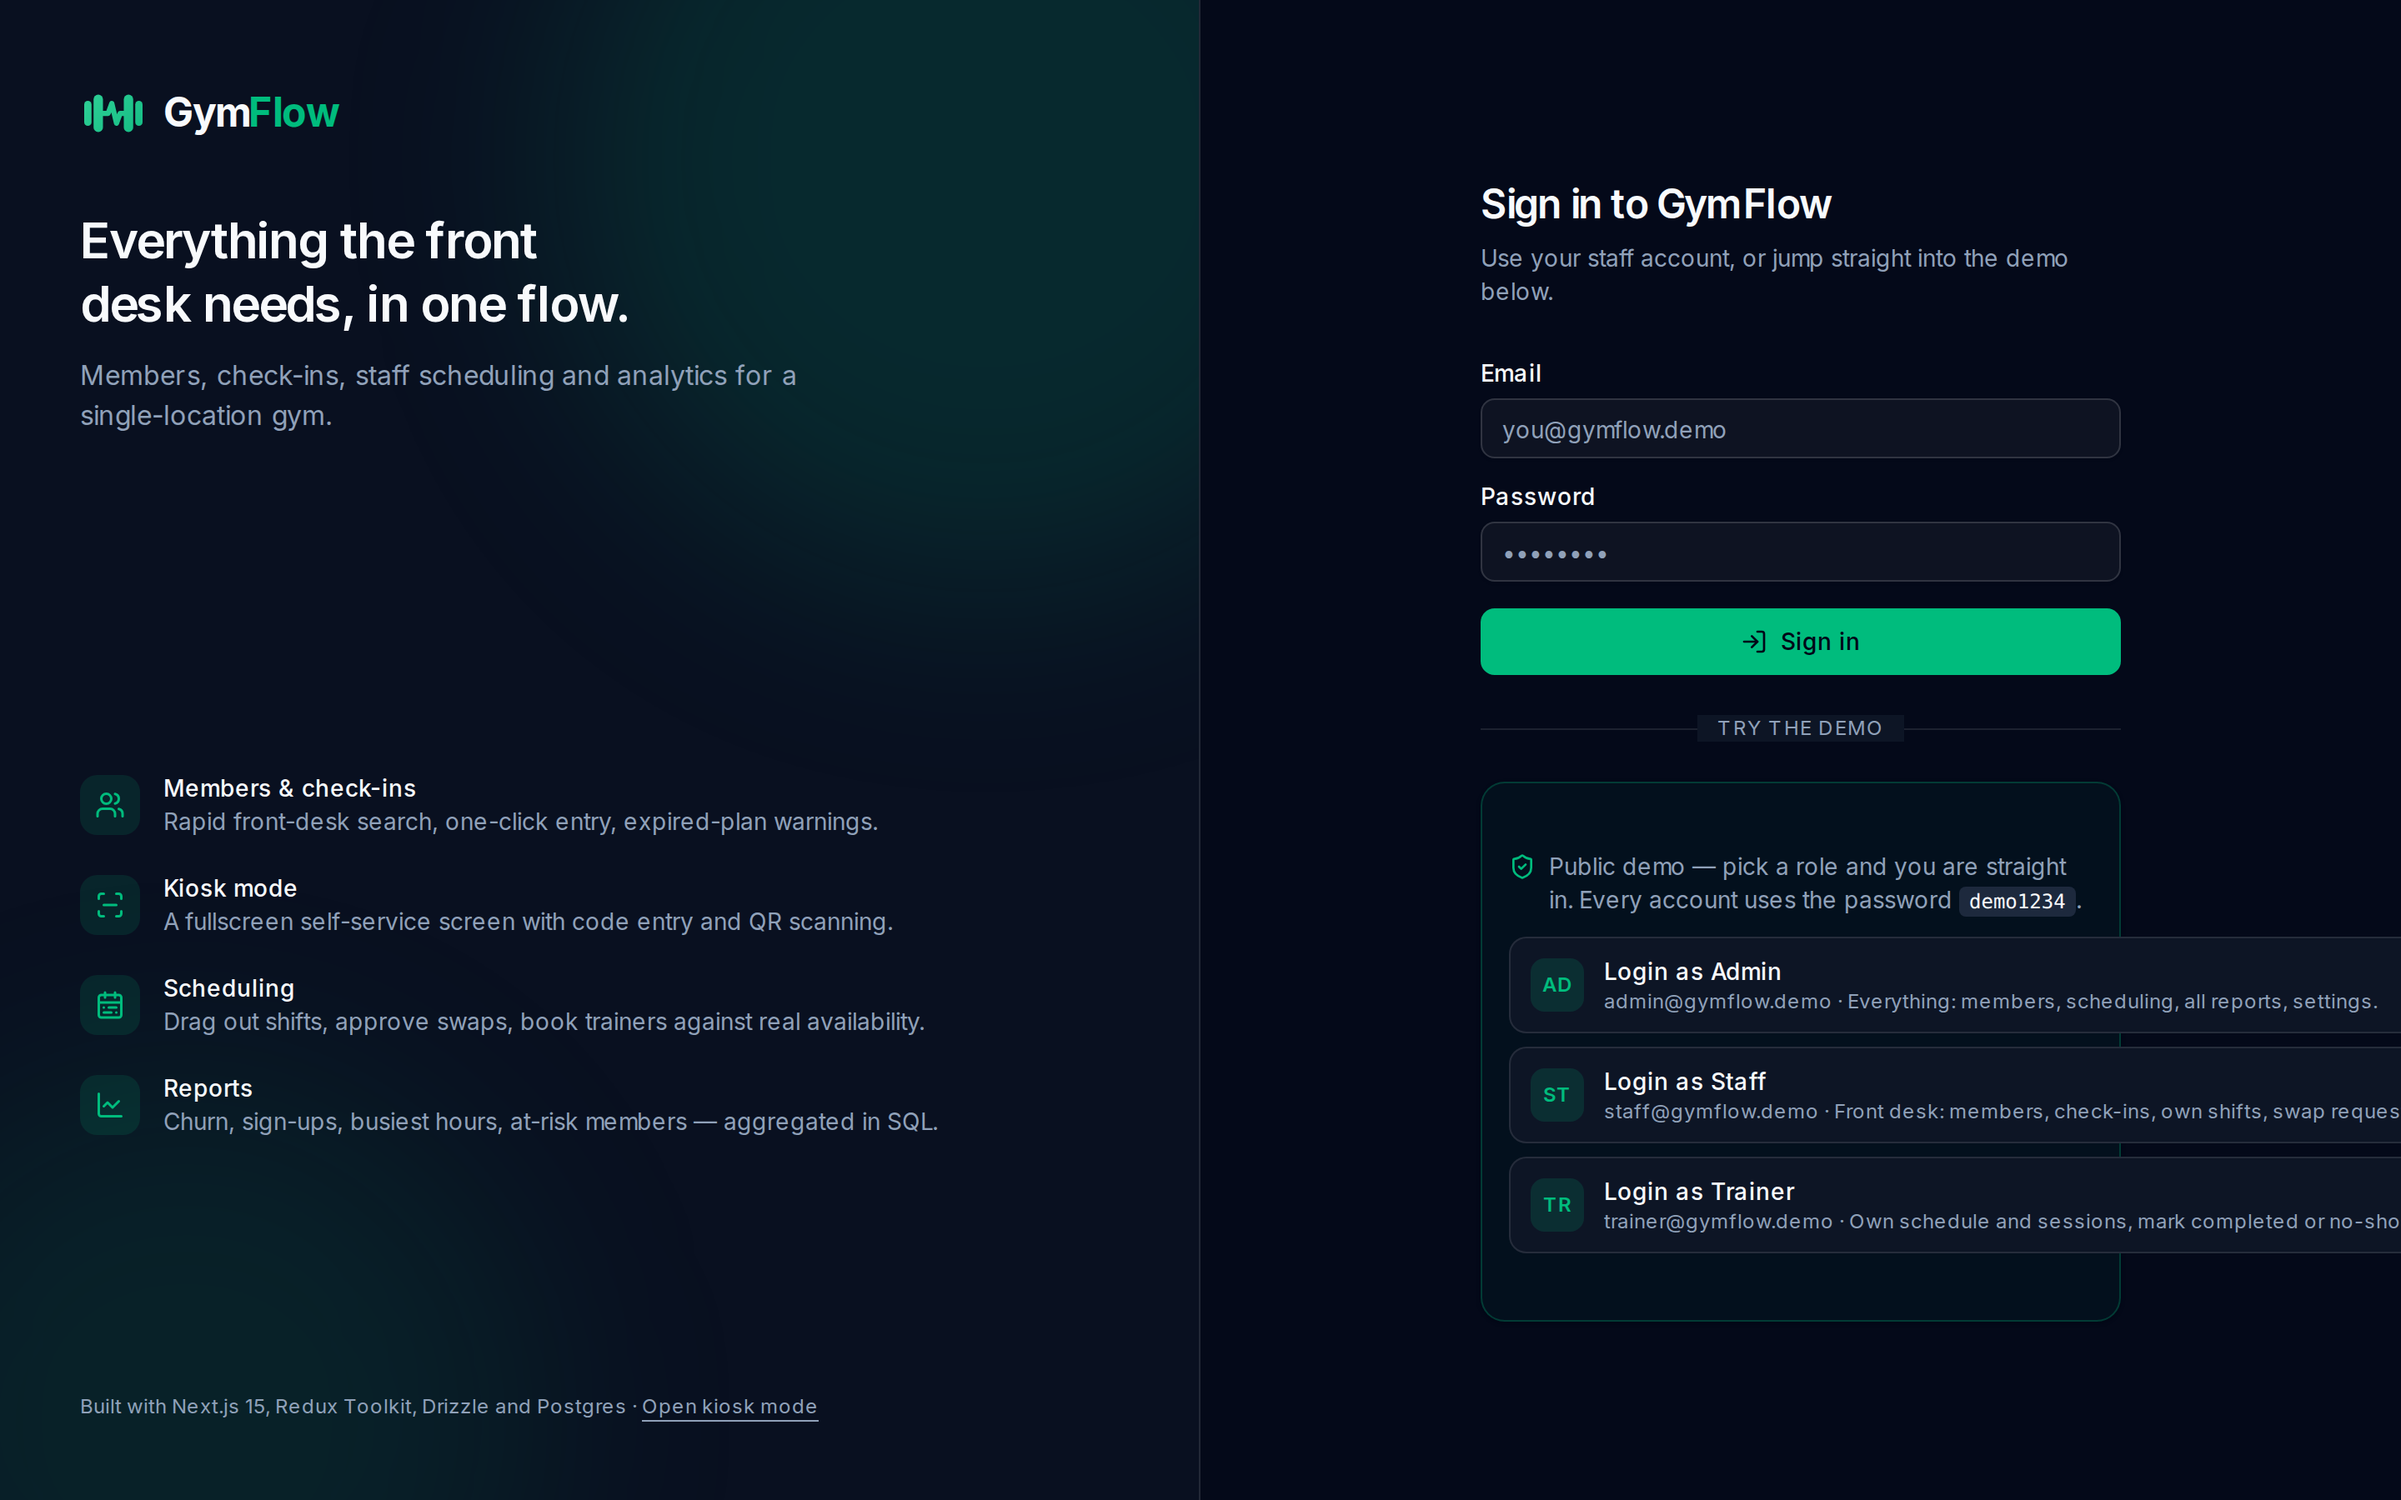
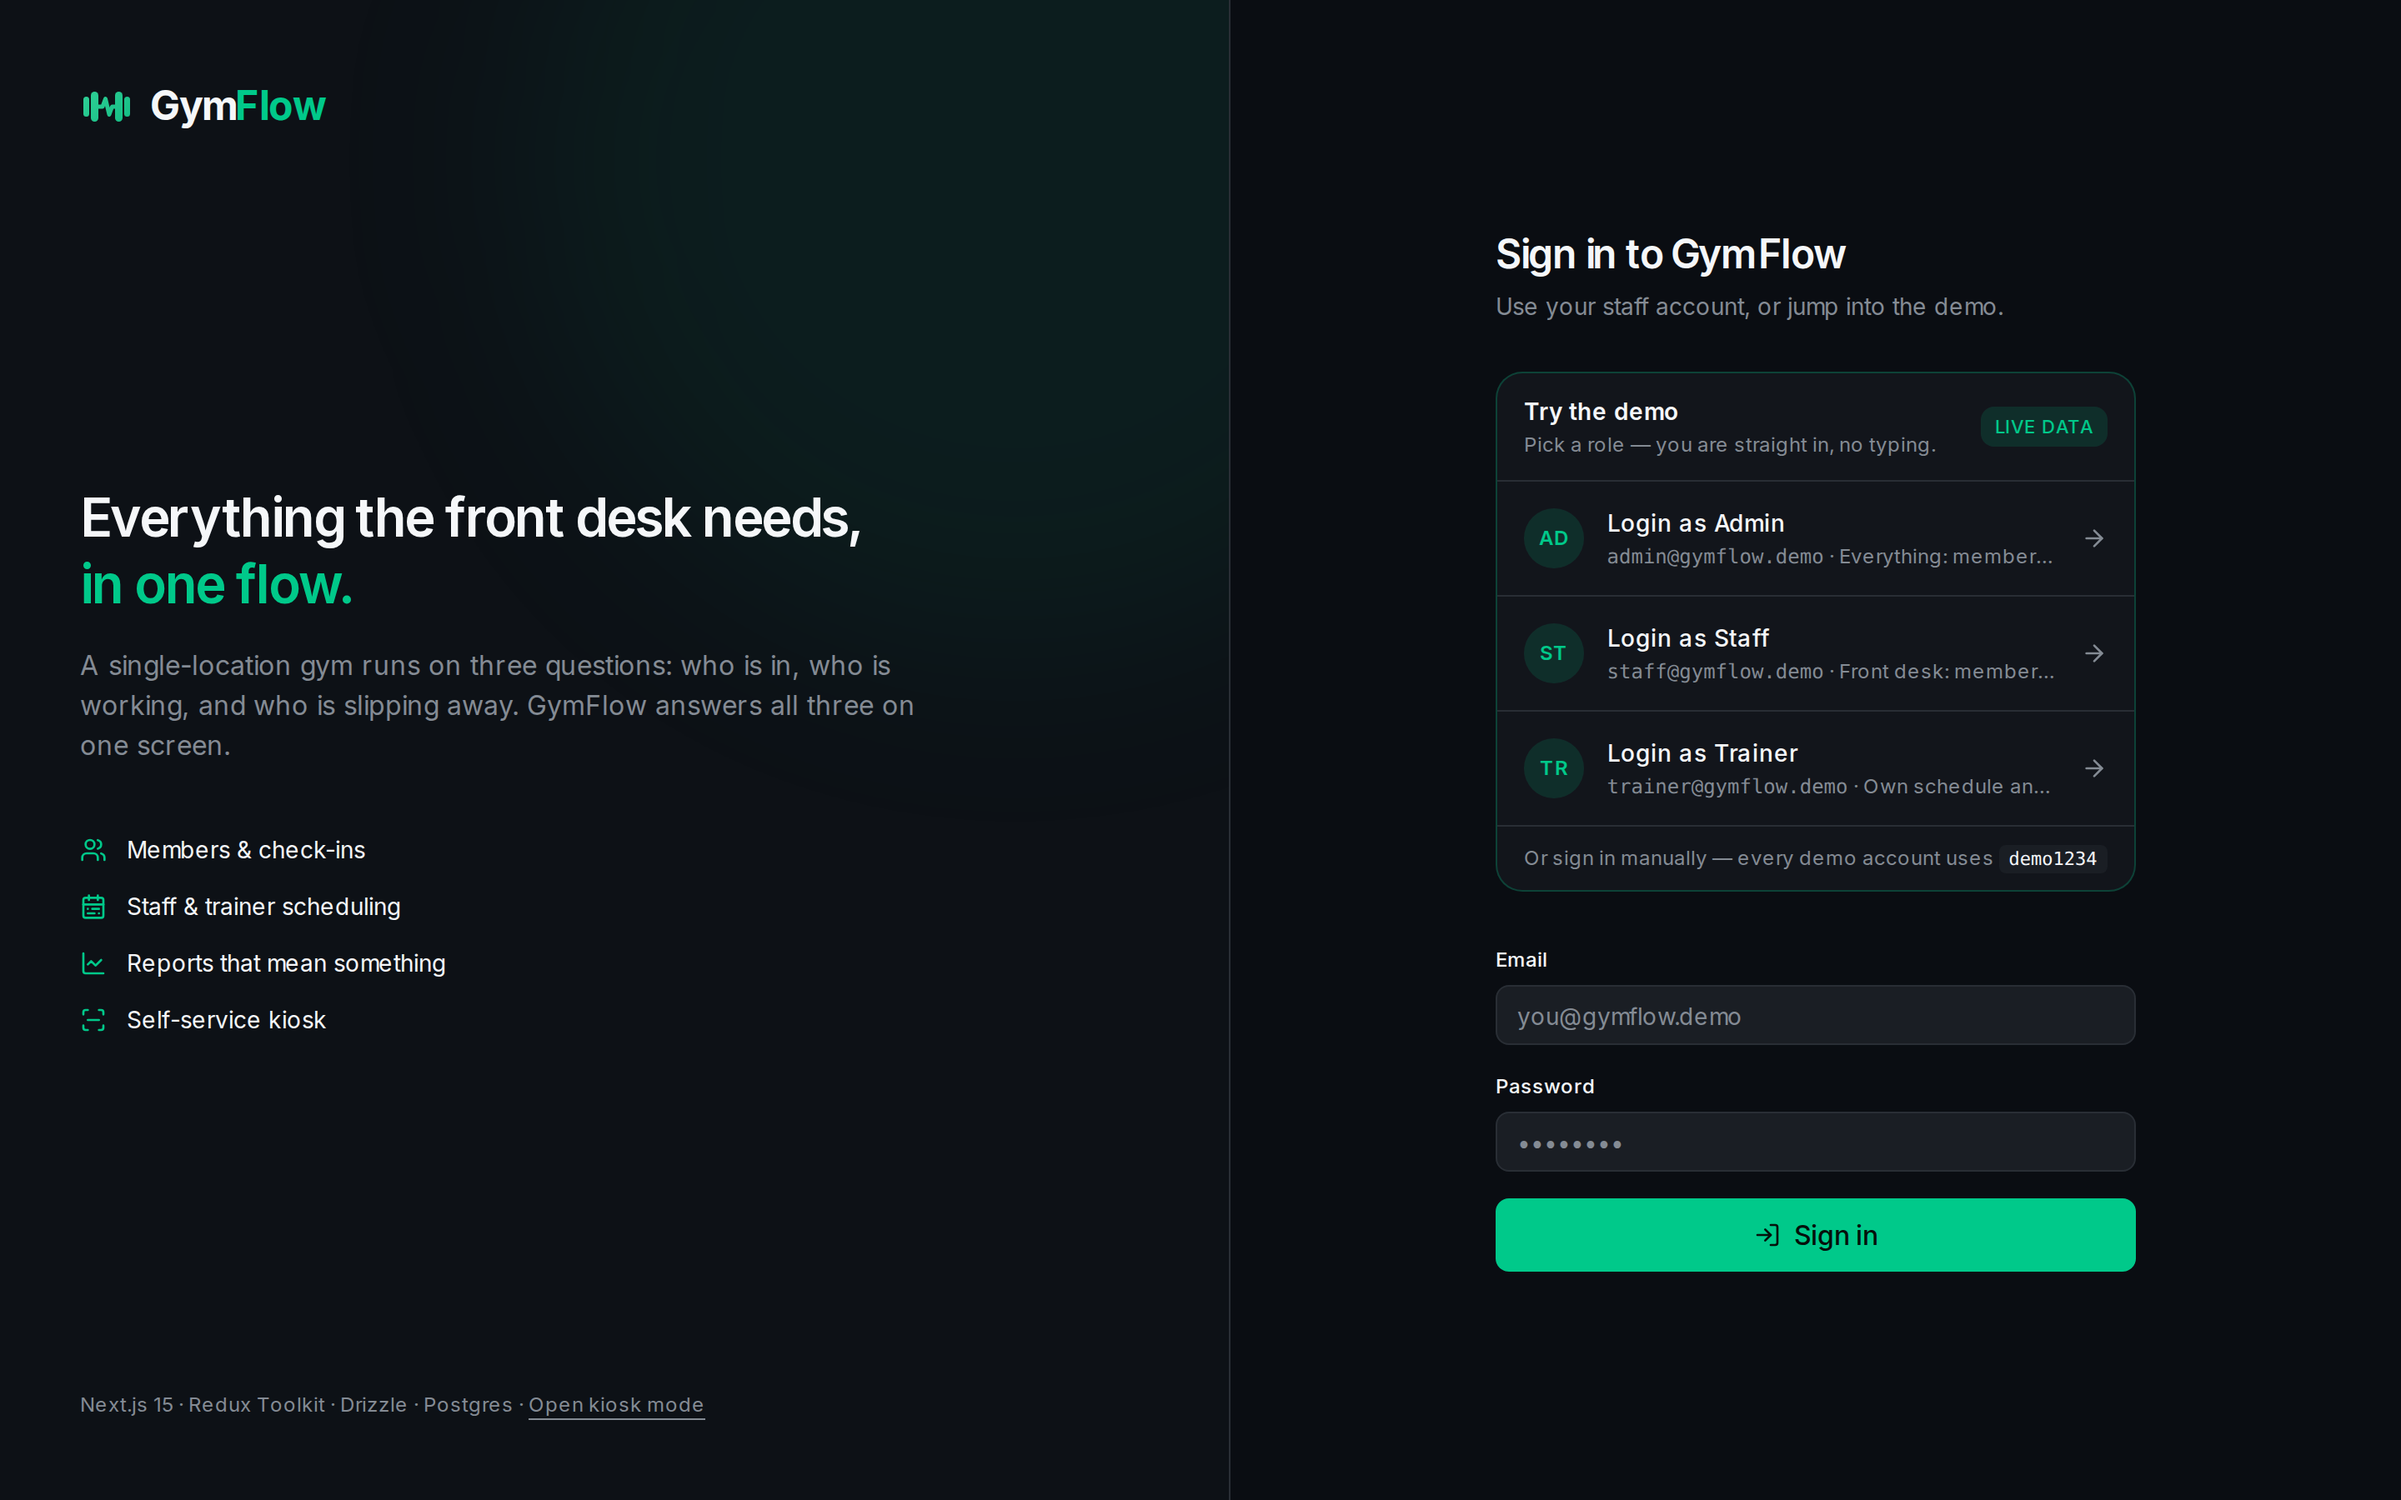
docs(design): refresh README screenshots and document the design system
Adds DESIGN.md to the docs links, a light-mode and style-guide capture, and an
Interface section covering the palette, shared forms and designed states.

diff --git a/scripts/screenshots.ts b/scripts/screenshots.ts
@@ -1,18 +1,16 @@
-import { chromium } from "@playwright/test";
+import { chromium, type Page } from "@playwright/test";
 
 /**
  * Captures the README screenshots against a running deployment.
  *
  *   pnpm tsx scripts/screenshots.ts https://gymflow-beryl.vercel.app
  */
-const SHOTS = [
-  { path: "/login", name: "login", auth: false },
-  { path: "/dashboard", name: "dashboard", auth: true },
-  { path: "/checkin", name: "checkin", auth: true },
-  { path: "/members", name: "members", auth: true },
-  { path: "/schedule", name: "schedule", auth: true },
-  { path: "/reports", name: "reports", auth: true },
-];
+const AUTHED = ["dashboard", "checkin", "members", "schedule", "reports", "settings", "styleguide"];
+
+async function settle(page: Page, ms = 1600) {
+  await page.waitForLoadState("networkidle").catch(() => {});
+  await page.waitForTimeout(ms);
+}
 
 async function main() {
   const baseURL = process.argv[2] ?? "http://localhost:3111";
@@ -28,34 +26,55 @@ async function main() {
   const page = await context.newPage();
 
   await page.goto("/login");
-  await page.waitForTimeout(600);
+  await settle(page, 800);
   await page.screenshot({ path: "docs/screenshots/login.png" });
 
   await page.getByRole("button", { name: "Login as Admin" }).click();
   await page.waitForURL(/\/dashboard/, { timeout: 30_000 });
 
-  for (const shot of SHOTS.filter((s) => s.auth)) {
-    await page.goto(shot.path);
-    await page.waitForLoadState("networkidle").catch(() => {});
-    await page.waitForTimeout(1800);
-    await page.screenshot({ path: `docs/screenshots/${shot.name}.png` });
-    console.log("captured", shot.name);
+  for (const name of AUTHED) {
+    await page.goto(`/${name}`);
+    await settle(page);
+    await page.screenshot({ path: `docs/screenshots/${name}.png` });
+    console.log("captured", name);
   }
 
-  // The reports heatmap sits behind a tab.
+  // The heatmap sits on the Traffic tab, which is the default — capture the
+  // busiest-hours card on its own for the README.
   await page.goto("/reports");
-  await page.waitForTimeout(1200);
-  await page.getByRole("tab", { name: "Busiest hours" }).click();
-  await page.waitForTimeout(1500);
+  await settle(page);
   await page.screenshot({ path: "docs/screenshots/reports-heatmap.png" });
 
+  // A member profile, for the tabbed identity header.
+  await page.goto("/members");
+  await settle(page);
+  await page.locator("table tbody tr a").first().click();
+  await page.waitForURL(/\/members\/[0-9a-f-]{36}/);
+  await settle(page);
+  await page.screenshot({ path: "docs/screenshots/member-profile.png" });
+
+  // Light mode, so the README shows the theme is real.
+  const lightContext = await browser.newContext({
+    baseURL,
+    viewport: { width: 1440, height: 900 },
+    deviceScaleFactor: 2,
+    storageState: await context.storageState(),
+  });
+  await lightContext.addInitScript(() => window.localStorage.setItem("theme", "light"));
+
+  const lightPage = await lightContext.newPage();
+  await lightPage.goto("/dashboard");
+  await settle(lightPage);
+  await lightPage.screenshot({ path: "docs/screenshots/dashboard-light.png" });
+  console.log("captured dashboard-light");
+
   // The kiosk, already paired with the seeded device token.
-  await context.addInitScript(
-    () => window.localStorage.setItem("gymflow.kiosk.token", "gfk_demo_front_door_kiosk"),
+  await context.addInitScript(() =>
+    window.localStorage.setItem("gymflow.kiosk.token", "gfk_demo_front_door_kiosk"),
   );
   const kiosk = await context.newPage();
   await kiosk.goto("/kiosk");
-  await kiosk.waitForTimeout(1200);
+  await settle(kiosk, 1200);
   await kiosk.screenshot({ path: "docs/screenshots/kiosk.png" });
 
   console.log("done");

diff --git a/src/presentation/components/dashboard/checkin-sparkline.tsx b/src/presentation/components/dashboard/checkin-sparkline.tsx
@@ -21,8 +21,9 @@ export function CheckinSparkline({
   const total = data.reduce((sum, point) => sum + point.count, 0);
 
   return (
-    <div className={cn("relative", className)}>
-      <div className="h-24" aria-hidden>
+    <div className={cn("relative flex flex-col", className)}>
+      {/* Grows to fill its card so the row does not end in dead space. */}
+      <div className="h-full min-h-28 flex-1" aria-hidden>
         <ResponsiveContainer width="100%" height="100%">
           <AreaChart data={data} margin={{ top: 4, right: 0, bottom: 0, left: 0 }}>
             <defs>

diff --git a/src/app/(dashboard)/dashboard/page.tsx b/src/app/(dashboard)/dashboard/page.tsx
@@ -148,8 +148,8 @@ export default async function DashboardPage() {
                   </Button>
                 </CardAction>
               </CardHeader>
-              <CardContent>
-                <CheckinSparkline data={trends.checkins} />
+              <CardContent className="flex-1">
+                <CheckinSparkline data={trends.checkins} className="h-full" />
               </CardContent>
             </Card>
           ) : null}

diff --git a/README.md b/README.md
@@ -5,7 +5,7 @@
 **Gym management for owners, front-desk staff, and trainers.**
 Members and check-ins · staff scheduling · reports that actually mean something.
 
-[**▶ Open the live demo**](https://gymflow-beryl.vercel.app) · [Architecture](ARCHITECTURE.md) · [Kiosk mode](https://gymflow-beryl.vercel.app/kiosk)
+[**▶ Open the live demo**](https://gymflow-beryl.vercel.app) · [Architecture](ARCHITECTURE.md) · [Design system](DESIGN.md) · [Kiosk mode](https://gymflow-beryl.vercel.app/kiosk)
 
 </div>
 
@@ -40,43 +40,54 @@ a few destructive actions are blocked for demo accounts — see
 
 <div align="center">
 
-<img src="docs/screenshots/login.png" alt="Login page with the demo credentials card" width="820" />
+<img src="docs/screenshots/dashboard.png" alt="Dashboard with the live occupancy hero metric" width="860" />
 
-*Login — the demo card puts all three roles one click away.*
-
-<br />
-
-<img src="docs/screenshots/dashboard.png" alt="Dashboard showing live occupancy, membership and upcoming roster" width="820" />
-
-*Dashboard — who is in the gym right now, membership health, the week ahead.*
+*Dashboard — the live occupancy counter is the one accent-coloured figure on the screen. Everything else is quiet until you need it.*
 
 <br />
 
-<img src="docs/screenshots/checkin.png" alt="Check-in desk with rapid search" width="820" />
+<img src="docs/screenshots/checkin.png" alt="Check-in desk" width="860" />
 
-*Check-in desk — type, arrow down, hit Enter. Expired and frozen memberships are refused with a reason.*
-
-<br />
-
-<img src="docs/screenshots/reports-heatmap.png" alt="Busiest-hours heatmap" width="820" />
-
-*Reports — a busiest-hours heatmap, aggregated entirely in SQL.*
+*Check-in desk — keyboard-first. Type, arrow, Enter. Success sweeps green; blocked entries say exactly why.*
 
 <br />
 
-<img src="docs/screenshots/schedule.png" alt="Weekly schedule grid" width="820" />
+<img src="docs/screenshots/reports.png" alt="Reports with the busiest-hours heatmap" width="860" />
 
-*Schedule — drag out a shift, approve a swap, book a trainer. Overlaps are impossible.*
+*Reports — every chart leads with a one-line finding, under a sticky global date range.*
 
 <br />
 
-<img src="docs/screenshots/kiosk.png" alt="Fullscreen kiosk check-in" width="620" />
+<img src="docs/screenshots/schedule.png" alt="Weekly schedule grid" width="860" />
 
-*Kiosk — unattended self-service, authenticated by a device token rather than a session.*
+*Schedule — drag out a shift, approve a swap, book a trainer. A current-time line tracks the day.*
+
+<br />
+
+<img src="docs/screenshots/member-profile.png" alt="Member profile" width="860" />
+
+*Member profile — identity header, then tabs. Never a wall of fields.*
+
+<br />
+
+<img src="docs/screenshots/login.png" alt="Login page with the demo card" width="860" />
+
+*Login — the demo card is the front door: three roles, one click each.*
+
+<br />
+
+<table>
+<tr>
+<td width="50%"><img src="docs/screenshots/kiosk.png" alt="Fullscreen kiosk" /></td>
+<td width="50%"><img src="docs/screenshots/dashboard-light.png" alt="Dashboard in light mode" /></td>
+</tr>
+<tr>
+<td align="center"><em>Kiosk — sized to read from across the room.</em></td>
+<td align="center"><em>Light mode, derived from the same tokens.</em></td>
+</tr>
+</table>
 
 </div>
-
----
 
 ## What it does
 
@@ -113,6 +124,13 @@ a few destructive actions are blocked for demo accounts — see
 ### Settings
 - Plans CRUD, opening hours, kiosk device tokens, staff invites
 
+### Interface
+- Dark-mode-first design system with a light theme derived from the same tokens
+- **⌘K command palette** — jump to any screen or find a member by name, code, email or phone
+- One shared form per entity, used for both create and edit — no duplicated dialogs
+- Designed empty, loading and error states on every screen; charts carry table fallbacks
+- Live style guide at `/styleguide`, documented in **[DESIGN.md](DESIGN.md)**
+
 ---
 
 ## Stack
@@ -129,9 +147,12 @@ a few destructive actions are blocked for demo accounts — see
 | Validation | Zod (schemas shared by the API and the client) |
 | Hosting | Vercel (free tier), CI/CD on push to `main` |
 | Tests | Vitest (use cases) + Playwright (end-to-end) |
+| Design | Token-based system, dark-first, one accent — see [DESIGN.md](DESIGN.md) |
 
-**Design language:** deep slate surfaces, one strong primary (emerald `#10B981`)
-used consistently, Inter via `next/font`, dark-mode-first.
+**Design language:** near-black slate in three elevation steps, one rationed
+accent (emerald), a semantic trio mapped onto the domain, a strict 12/14/16/20/
+24/32 type scale, and motion only where it communicates. Full rationale in
+**[DESIGN.md](DESIGN.md)**.
 
 ---
 
@@ -239,7 +260,8 @@ freeze plans, drag out shifts, approve swaps, book sessions, export CSVs.
 | Unit tests | 46 passing |
 | End-to-end tests (against production) | 25 passing |
 | Lighthouse — performance, desktop | **100** on every page |
-| Lighthouse — accessibility / best practices | **100 / 100** on every page |
+| Lighthouse — accessibility | **96–100** on every page |
+| Lighthouse — best practices | **100** on every page |
 | All three demo roles on the live URL | ✅ |
 | Check-in, shift creation, every report | ✅ |
 | Nightly demo reset | ✅ verified end to end |
